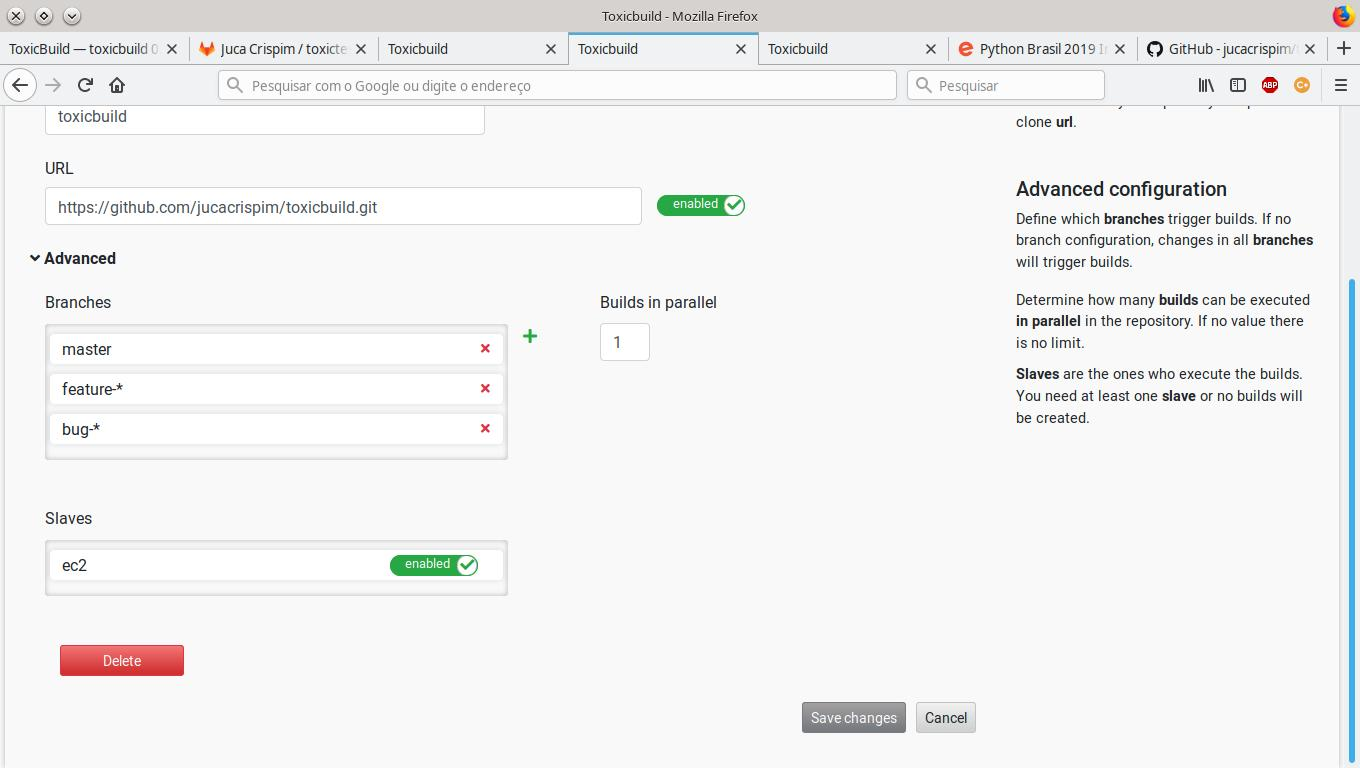
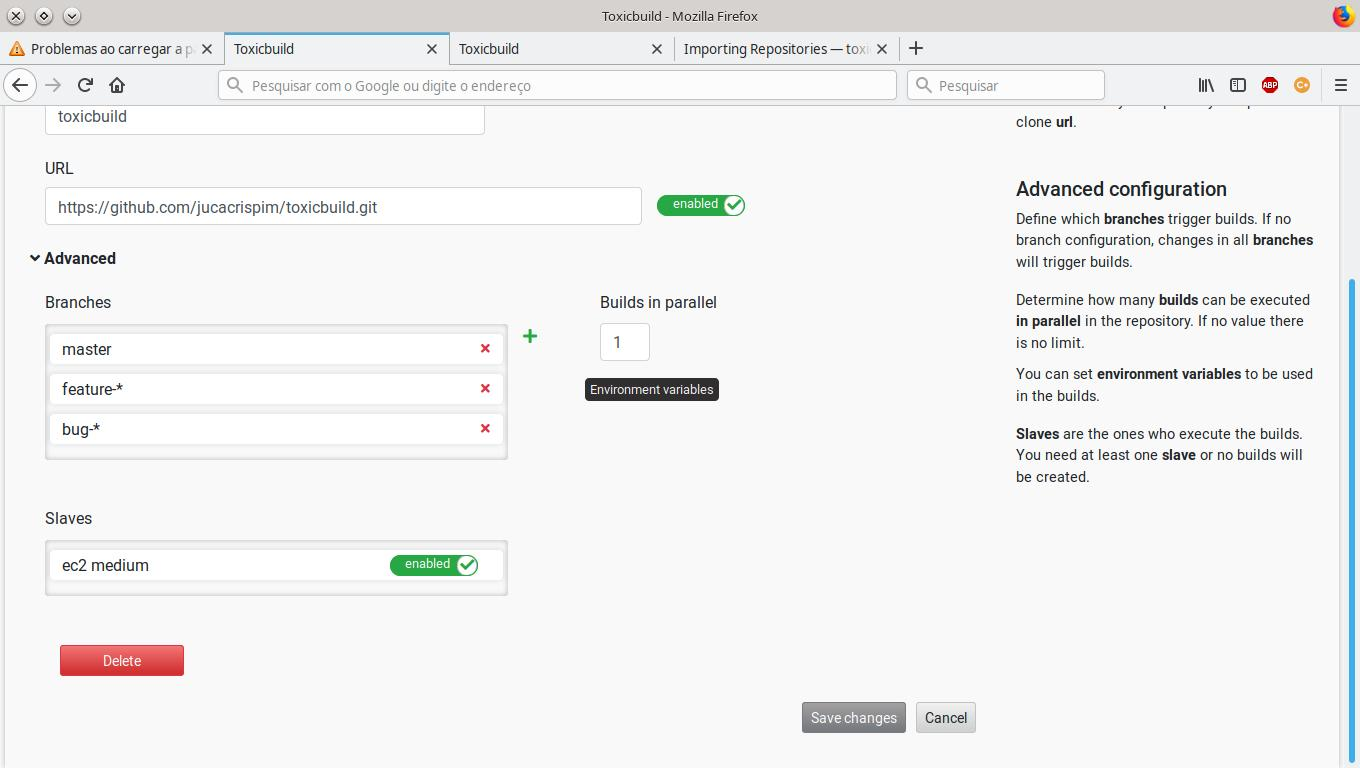
Improve docs
ci:skip

diff --git a/toxicbuild/master/client.py b/toxicbuild/master/client.py
@@ -77,7 +77,7 @@ class BuildClient(BaseToxicClient, LoggerMixin):
         """Requests a build for the build server.
 
         :param build: The build that will be executed.
-        param evvars: Environment variables to use in the build.
+          param evvars: Environment variables to use in the build.
         :param process_coro: A coroutine to process the intermediate
           build information sent by the build server."""
 

diff --git a/docs/source/repo_ui.rst b/docs/source/repo_ui.rst
@@ -87,11 +87,29 @@ these are the available options:
   branches configuration, all branches will trigger builds. The branches
   configuration has the following options:
 
+  |repo-branch-config-img|
+
+  .. |repo-branch-config-img| image:: ./_static/repo-branch-config.jpg
+					:alt: Repository branch configuration
+
+
   - ``Name`` - The branch name. You can use wildcards here.
   - ``Only most recent changes`` - If checked when a bunch of commits
     are pushed at the same time only the most recent will trigger builds
 
 * ``Parallel builds`` - How many parallel builds this repository can
   run. If no parallel builds there is no limit.
+
+* ``Environment variables`` - Environment variables that will be present
+  in the build environment.
+
+  |repo-envvars-config-img|
+
+  .. |repo-envvars-config-img| image:: ./_static/repo-envvars-config.jpg
+				       :alt: Repository envvars configuration
+
+  - ``Key`` - The environment variable name
+  - ``Value`` - The value of the variable
+
 * ``Slaves`` - Which slaves can execute builds for the repository. If a
   repository don't have any enabled slave no builds will be executed.

diff --git a/docs/source/apidoc/toxicbuild.ui.rst b/docs/source/apidoc/toxicbuild.ui.rst
@@ -12,14 +12,6 @@ toxicbuild.ui.cli module
     :undoc-members:
     :show-inheritance:
 
-toxicbuild.ui.client module
----------------------------
-
-.. automodule:: toxicbuild.ui.client
-    :members:
-    :undoc-members:
-    :show-inheritance:
-
 toxicbuild.ui.connectors module
 -------------------------------
 
@@ -36,26 +28,10 @@ toxicbuild.ui.context\_processors module
     :undoc-members:
     :show-inheritance:
 
-toxicbuild.ui.exceptions module
--------------------------------
-
-.. automodule:: toxicbuild.ui.exceptions
-    :members:
-    :undoc-members:
-    :show-inheritance:
-
 toxicbuild.ui.inutils module
 ----------------------------
 
 .. automodule:: toxicbuild.ui.inutils
-    :members:
-    :undoc-members:
-    :show-inheritance:
-
-toxicbuild.ui.models module
----------------------------
-
-.. automodule:: toxicbuild.ui.models
     :members:
     :undoc-members:
     :show-inheritance:

diff --git a/docs/source/build_config.rst b/docs/source/build_config.rst
@@ -66,6 +66,37 @@ and then we install what is needed using the ``system_packages`` parameter.
    :ref:`system-plugins`
 
 
+An example
+----------
+
+The following configuration
+
+.. code-block:: yaml
+
+   language: python
+   versions:
+     - '3.5'
+     - '3.6'
+     - '3.7'
+
+   steps:
+     - name: Run pylint
+       command: pylint pylint_mongoengine
+       warning_on_fail: true
+
+     - name: Tests coverage
+       command: sh ./build-scripts/check_coverage.sh pylint_mongoengine 100
+
+
+Generates the following buildset
+
+|waterfall-py-example-img|
+
+.. |waterfall-py-example-img| image:: ./_static/waterfall-py-example.jpg
+    :alt: Waterfall buildsets example
+
+
+
 .. _build-advanced-config:
 
 Advanced configuration

diff --git a/docs/source/apidoc/toxicbuild.common.rst b/docs/source/apidoc/toxicbuild.common.rst
@@ -4,10 +4,26 @@ toxicbuild.common package
 Submodules
 ----------
 
-toxicbuild.common.api\_models module
-------------------------------------
+toxicbuild.common.client module
+-------------------------------
 
-.. automodule:: toxicbuild.common.api_models
+.. automodule:: toxicbuild.common.client
+    :members:
+    :undoc-members:
+    :show-inheritance:
+
+toxicbuild.common.exceptions module
+-----------------------------------
+
+.. automodule:: toxicbuild.common.exceptions
+    :members:
+    :undoc-members:
+    :show-inheritance:
+
+toxicbuild.common.interfaces module
+-----------------------------------
+
+.. automodule:: toxicbuild.common.interfaces
     :members:
     :undoc-members:
     :show-inheritance:

diff --git a/docs/source/configuration.rst b/docs/source/configuration.rst
@@ -256,11 +256,11 @@ The default configuration for the docker images is:
 
 .. code-block:: json
 
-   default_images = {
-       "linux-generic": "jucacrispim/toxiccontainers:debian-generic",
-       "python3.5": "jucacrispim/toxiccontainers:debian-python3.5",
-       "python3.6": "jucacrispim/toxiccontainers:debian-python3.6",
-       "python3.7": "jucacrispim/toxiccontainers:debian-python3.7"
+   {
+     "linux-generic": "jucacrispim/toxiccontainers:debian-generic",
+     "python3.5": "jucacrispim/toxiccontainers:debian-python3.5",
+     "python3.6": "jucacrispim/toxiccontainers:debian-python3.6",
+     "python3.7": "jucacrispim/toxiccontainers:debian-python3.7"
    }
 
 
